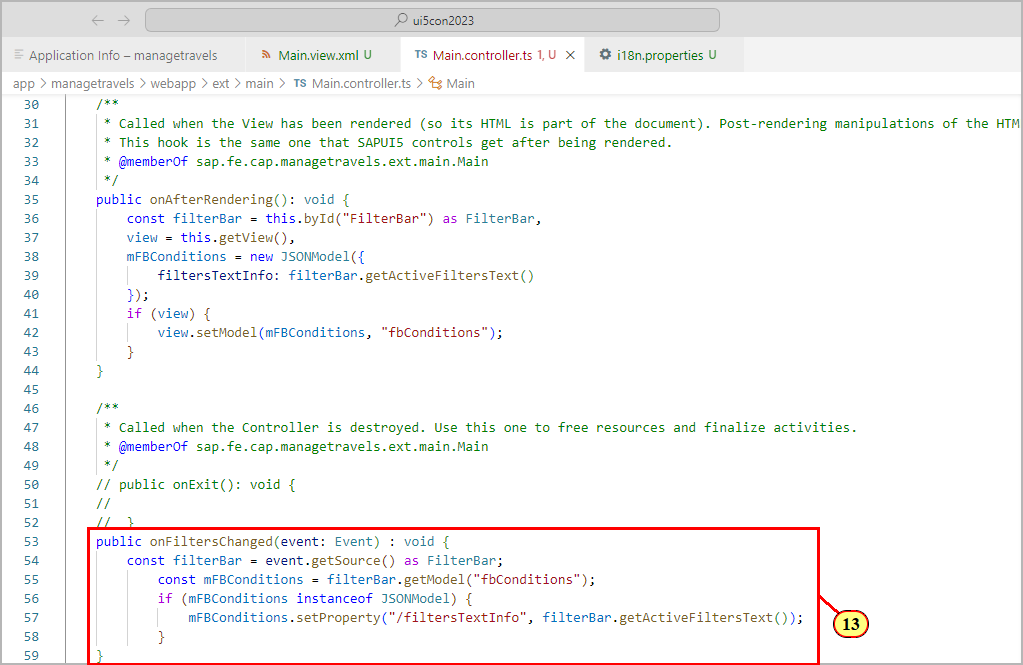
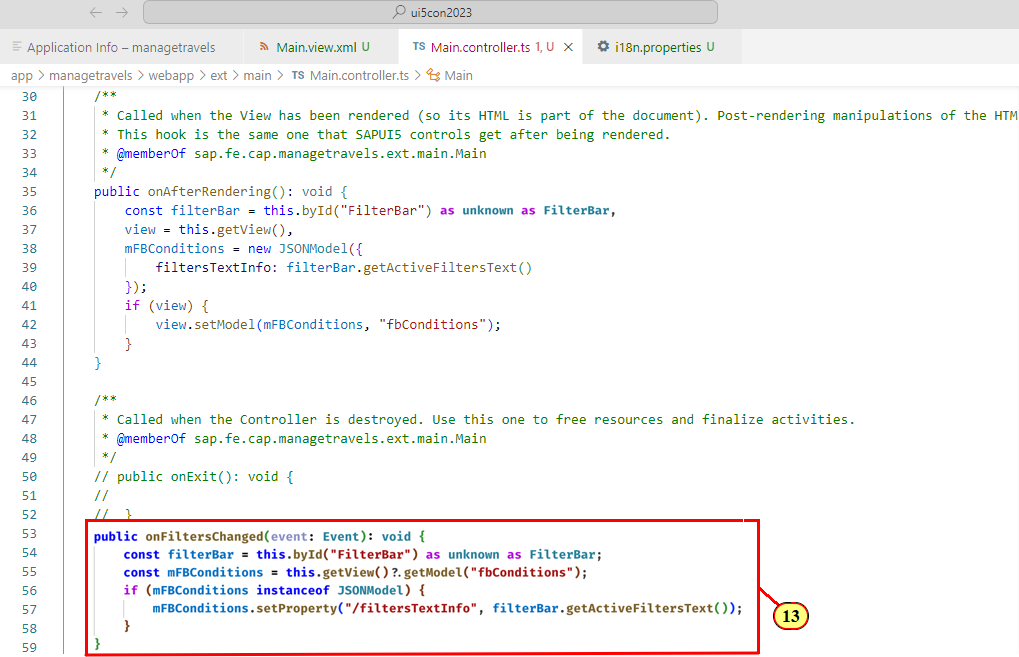
exercises updated

diff --git a/app/test-resources/ext/view/Main.controller.ts b/app/test-resources/ext/view/Main.controller.ts
@@ -34,13 +34,13 @@ export default class Main extends Controller {
      * @memberOf sap.fe.cap.managetravels.ext.main.Main
      */
     public onAfterRendering(): void {
-        const filterBar = this.byId("FilterBar") as FilterBar,
-        view = this.getView(),
-        mFBConditions = new JSONModel({
-            filtersTextInfo: filterBar.getActiveFiltersText()
-        });
+        const filterBar = this.byId("FilterBar") as unknown as FilterBar,
+            view = this.getView(),
+            mFBConditions = new JSONModel({
+                filtersTextInfo: filterBar.getActiveFiltersText()
+            });
         if (view) {
-            view.setModel(mFBConditions, "fbConditions");  
+            view.setModel(mFBConditions, "fbConditions");
         };
         filterBar.triggerSearch();
     }
@@ -53,19 +53,19 @@ export default class Main extends Controller {
     //
     //  }
 
-    public onFiltersChanged(event: Event) : void {
-        const filterBar = event.getSource() as FilterBar;
-            const mFBConditions = filterBar.getModel("fbConditions");
-            if (mFBConditions instanceof JSONModel) {
-                mFBConditions.setProperty("/filtersTextInfo", filterBar.getActiveFiltersText());
-            }
-    }  
-    
-    public onPressed(event: Event) : void {
+    public onFiltersChanged(event: Event): void {
+        const filterBar = this.byId("FilterBar") as unknown as FilterBar;
+        const mFBConditions = this.getView()?.getModel('fbConditions');
+        if (mFBConditions instanceof JSONModel) {
+            mFBConditions.setProperty('/filtersTextInfo', filterBar.getActiveFiltersText());
+        }
+    }
+
+    public onPressed(event: Event): void {
         const oContext = (event.getSource() as GenericTile).getBindingContext();
         if (oContext) {
             const routing = this.getExtensionAPI().getRouting();
             routing.navigate(oContext as Context);
         }
-    } 
+    }
 }

diff --git a/exercises/ex3/README.md b/exercises/ex3/README.md
@@ -89,13 +89,13 @@ Method **triggerSearch** makes sure that load is triggered on start of the app.
 
 ```ts
     public onAfterRendering(): void {
-        const filterBar = this.byId("FilterBar") as FilterBar,
-        view = this.getView(),
-        mFBConditions = new JSONModel({
-            filtersTextInfo: filterBar.getActiveFiltersText()
-        });
+        const filterBar = this.byId("FilterBar") as unknown as FilterBar,
+            view = this.getView(),
+            mFBConditions = new JSONModel({
+                filtersTextInfo: filterBar.getActiveFiltersText()
+            });
         if (view) {
-            view.setModel(mFBConditions, "fbConditions");  
+            view.setModel(mFBConditions, "fbConditions");
         };
         filterBar.triggerSearch();
     }
@@ -116,13 +116,13 @@ Method **triggerSearch** makes sure that load is triggered on start of the app.
 
 (13) Add the following handler function **onFiltersChanged** as shown in the screenshot below. In the handler function, property **filterTextInfo** is set every time the filter has been changed.
 ```ts
-    public onFiltersChanged(event: Event) : void {
-        const filterBar = event.getSource() as FilterBar;
-            const mFBConditions = filterBar.getModel("fbConditions");
-            if (mFBConditions instanceof JSONModel) {
-                mFBConditions.setProperty("/filtersTextInfo", filterBar.getActiveFiltersText());
-            }
-    }        
+    public onFiltersChanged(event: Event): void {
+        const filterBar = this.byId("FilterBar") as unknown as FilterBar;
+        const mFBConditions = this.getView()?.getModel("fbConditions");
+        if (mFBConditions instanceof JSONModel) {
+            mFBConditions.setProperty("/filtersTextInfo", filterBar.getActiveFiltersText());
+        }
+    }       
 ```
 ![](./images/tsimage11.png)
 
